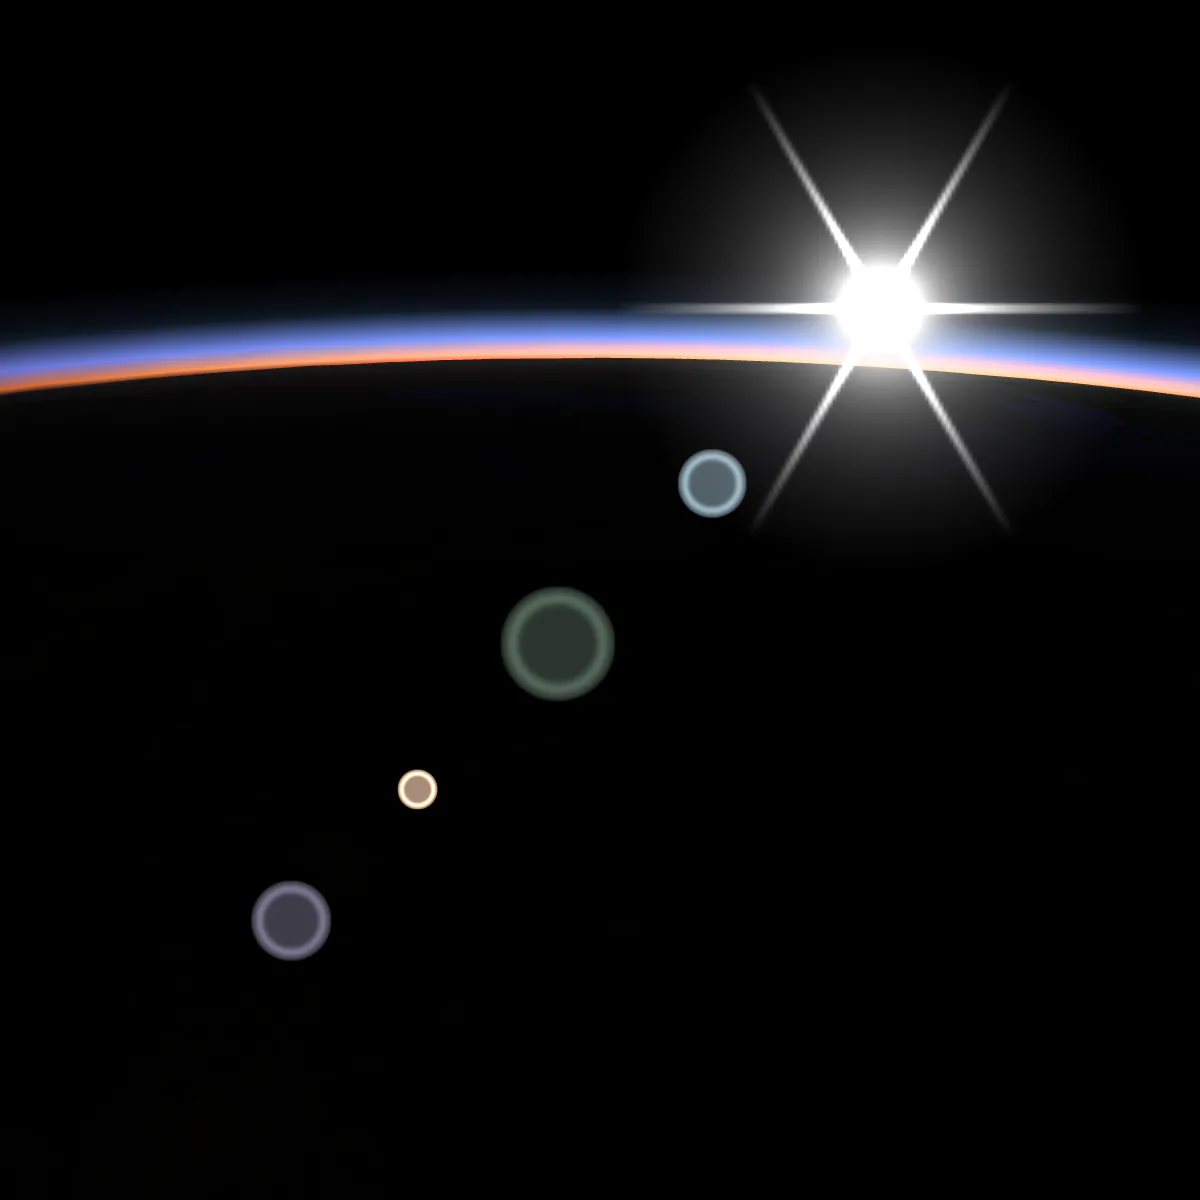
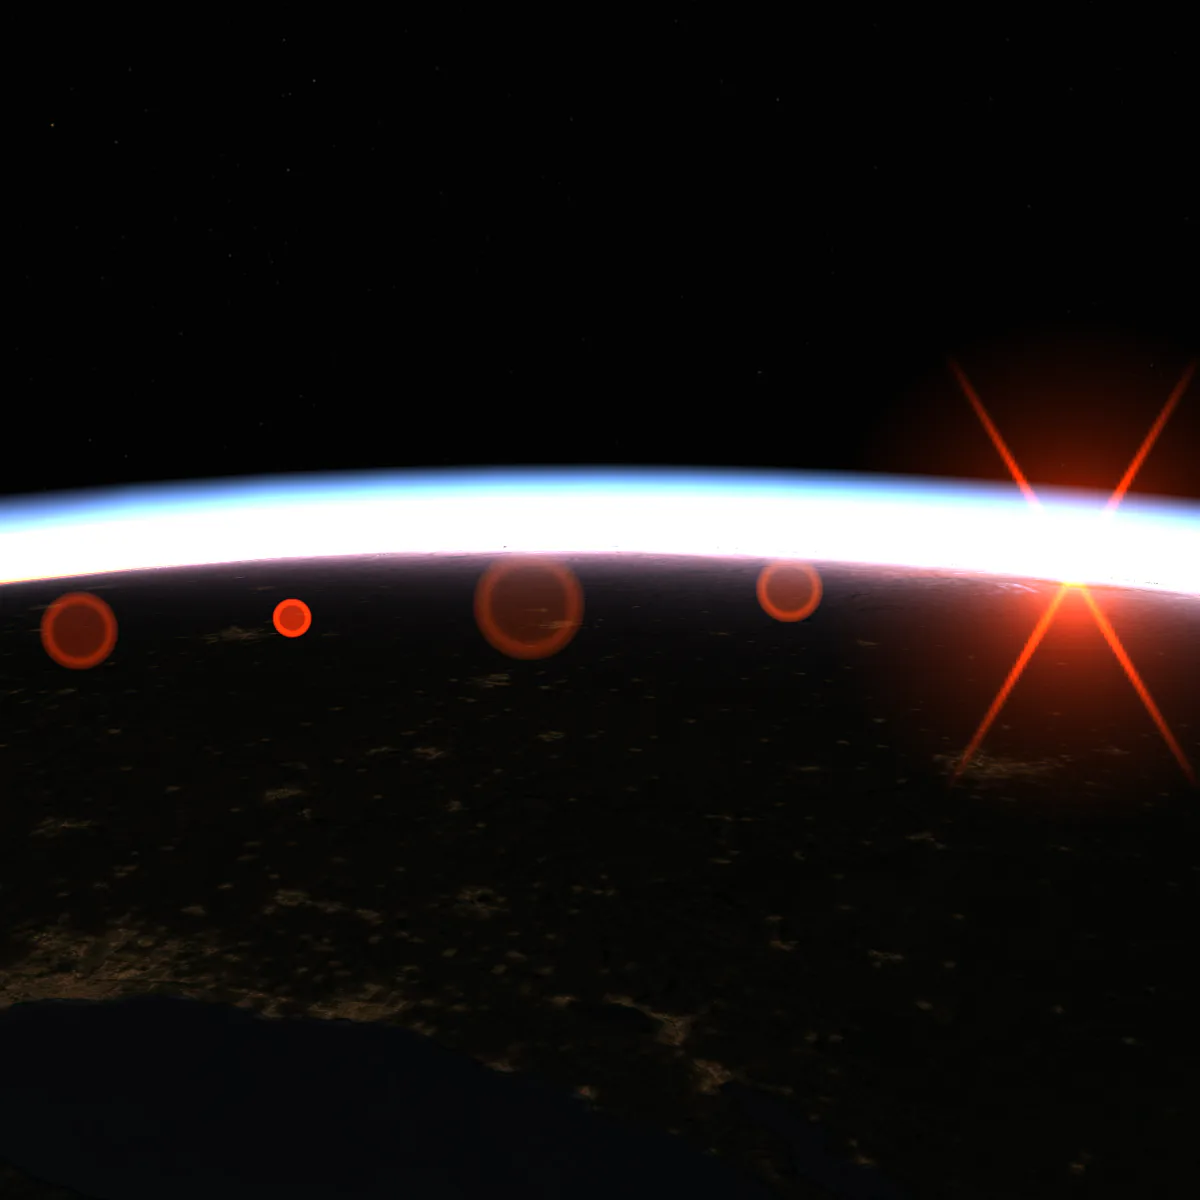
Fill the sky card with the orbital Great Lakes sunset, with the heading on the black sky and the text on the night side, and credit it behind a help button

diff --git a/landing.css b/landing.css
@@ -94,6 +94,17 @@
 .feature__sky-limb { position: absolute; inset: 52px -5% auto; height: 80px; border-top: 1px solid #e0ad91; border-radius: 50%; background: linear-gradient(#34465c, #111e31 30%); box-shadow: 0 -3px 12px #fac19070; }
 .feature--sky h2 { margin-bottom: 12px; }
 .feature--sky h2 > span { color: #c6cbed; }
+/* The orbital sunset fills the card: the label and heading on the black sky above the Earth's edge, the text and link on the night side below. The illustration stays beneath, hidden.
+   The picture's band of air runs from 39% to 49% of its height. On tall cards it falls below the heading as it is; on wide ones --sky-edge moves the picture up to put the band there. The paragraph keeps the band and the flare's ghosts below it (17cqw) clear. */
+.feature--sky[data-sky-art="sunset"] { --sky-edge: 100cqw; container-type: inline-size; display: flex; flex-direction: column; background: #000; }
+.feature--sky[data-sky-art="sunset"] .feature__sky-art { display: none; }
+.feature--sky[data-sky-art="sunset"] h2 { margin-block: 12px 0; }
+.feature--sky[data-sky-art="sunset"] > p:not(.feature__label) { margin-top: auto; padding-top: calc(17cqw + 20px); }
+.feature--sky[data-sky-art="sunset"] .feature__link { position: relative; align-self: flex-start; }
+.feature--sky[data-sky-art="sunset"] .feature__help-row { position: absolute; right: 25px; bottom: 25px; z-index: 1; margin: 0; padding: 0; }
+.feature__photo { position: absolute; inset: 0; }
+.feature__photo img { display: block; width: 100%; height: 100%; object-fit: cover; object-position: 50% 0; }
+.feature--sky[data-sky-art="sunset"] .feature__photo img { object-position: 50% min(0px, calc(var(--sky-edge) - 39cqw)); }
 .feature--systems h2 { margin-block: 18px 14px; }
 .feature__system-tags { display: flex; flex-wrap: wrap; gap: 6px; margin-top: 19px; }
 .feature__system-tags > span { padding: 4px 9px; border: 1px solid #48525b; border-radius: 6px; color: #bdc8d0; font: 10px/1.5 ui-monospace, "SF Mono", Menlo, Consolas, monospace; }
@@ -185,6 +196,7 @@
   .feature--gpu h2 { font-size: 40px; }
   .feature__gpu-mark { width: 50px; height: 50px; }
   .feature--sky, .feature--systems, .feature--sound, .feature--multiplayer { grid-column: span 6; min-height: 290px; }
+  .feature--sky[data-sky-art="sunset"] { --sky-edge: 121px; }
   .feature__badge { font-size: 8px; }
   .info-page__roadmap { gap: 28px; padding: 28px; }
   .info-page__roadmap-items { gap: 20px; }
@@ -218,6 +230,7 @@
   .feature--world { min-height: 0; aspect-ratio: 1; padding: 0; }
   .feature--gpu, .feature--physics, .feature--native, .feature--phone, .feature--sky, .feature--systems, .feature--sound, .feature--multiplayer { grid-column: 1; min-height: 235px; }
   .feature h2 { font-size: 32px; }
+  .feature--sky[data-sky-art="sunset"] { --sky-edge: 131px; }
   .feature--gpu h2 { font-size: 46px; padding-top: 55px; }
   .feature__gpu-mark { top: 35px; right: 40px; width: 65px; height: 65px; }
   .feature__threads { max-width: 270px; }

diff --git a/index.html b/index.html
@@ -136,10 +136,21 @@
                 <p>Laptop: <a href="https://sketchfab.com/3d-models/macbook-air-m2-786fa23d402a4f90ae36c4168997f9cc" target="_blank" rel="noopener">“MacBook Air M2”</a> by <a href="https://sketchfab.com/rtql8d" target="_blank" rel="noopener">rtql8d</a>, <a href="https://creativecommons.org/licenses/by/4.0/" target="_blank" rel="noopener">CC BY 4.0</a>, modified</p>
               </div>
             </article>
-            <article class="feature feature--sky">
+            <article class="feature feature--sky" data-sky-art="sunset">
+              <picture class="feature__photo" aria-hidden="true">
+                <source srcset="media/sky-sunset-orbit.webp?v=6656fef173b9" type="image/webp" />
+                <img src="media/sky-sunset-orbit.jpg?v=5a0eb9f39407" width="1200" height="1200" alt="" loading="lazy" decoding="async" />
+              </picture>
               <p class="feature__label">06 / Sky &amp; astronomy</p>
               <div class="feature__sky-art" aria-hidden="true"><span class="feature__sky-sun"></span><span class="feature__sky-limb"></span></div>
               <h2>A sky built<br /><span>on physics.</span></h2><p>Atmospheric scattering, sunlight, moonlight and stars. A sky that follows your place and time.</p><a class="feature__link" href="https://github.com/foss-earth/sky/blob/main/README.md">Explore the sky model <span aria-hidden="true">↗</span></a>
+              <div class="feature__help-row"><button type="button" class="info-page__help-button" hidden data-help="sky-art-credits" aria-label="Sky picture credits">?</button></div>
+              <div id="sky-art-credits" class="info-page__help-tooltip" hidden aria-labelledby="sky-art-credits-title">
+                <h4 id="sky-art-credits-title">Picture credits</h4>
+                <p>Sunset over the Great Lakes from 400 km, rendered in FOSS Earth.</p>
+                <p><a href="https://www.google.com/help/legalnotices_maps/" target="_blank" rel="noopener">Google 3D Tiles <span aria-hidden="true">↗</span></a></p>
+                <p>City lights: <a href="https://nasa-gibs.github.io/gibs-api-docs/" target="_blank" rel="noopener">NASA GIBS <span aria-hidden="true">↗</span></a>, VIIRS Day/Night Band</p>
+              </div>
             </article>
             <article class="feature feature--systems">
               <p class="feature__label">07 / Aircraft systems</p><h2>More than<br />a moving model.</h2><p>Manage fuel, trim, flaps and landing gear. Set the wind. Feel G-force effects. Ground contact connects the flight model to the terrain.</p>
